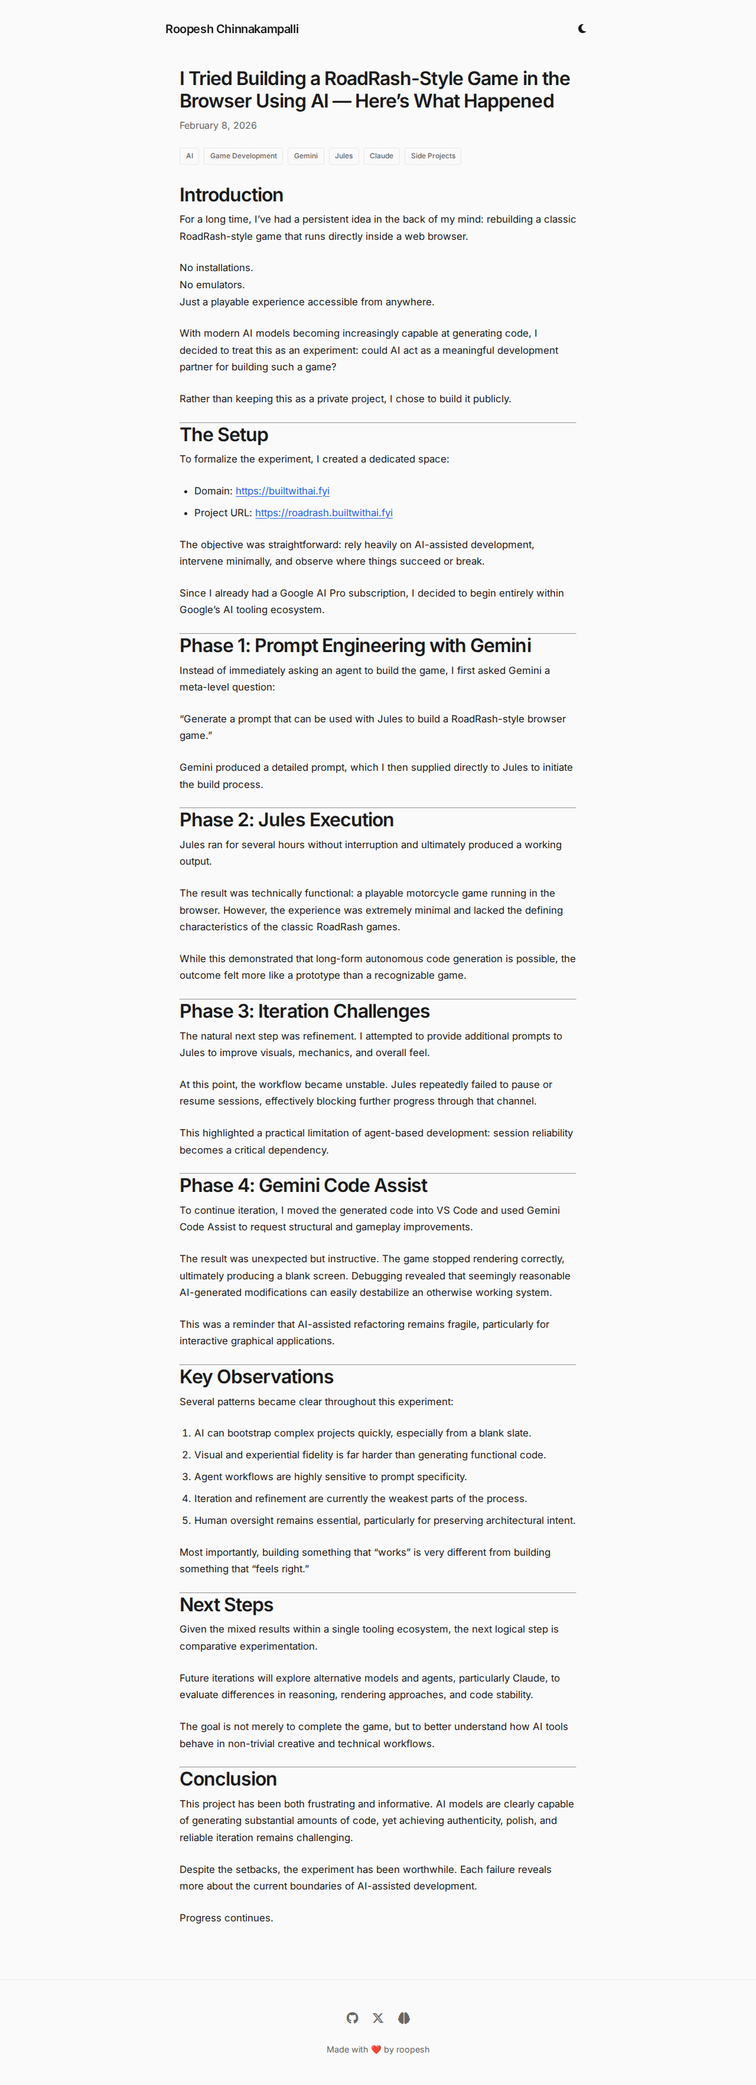
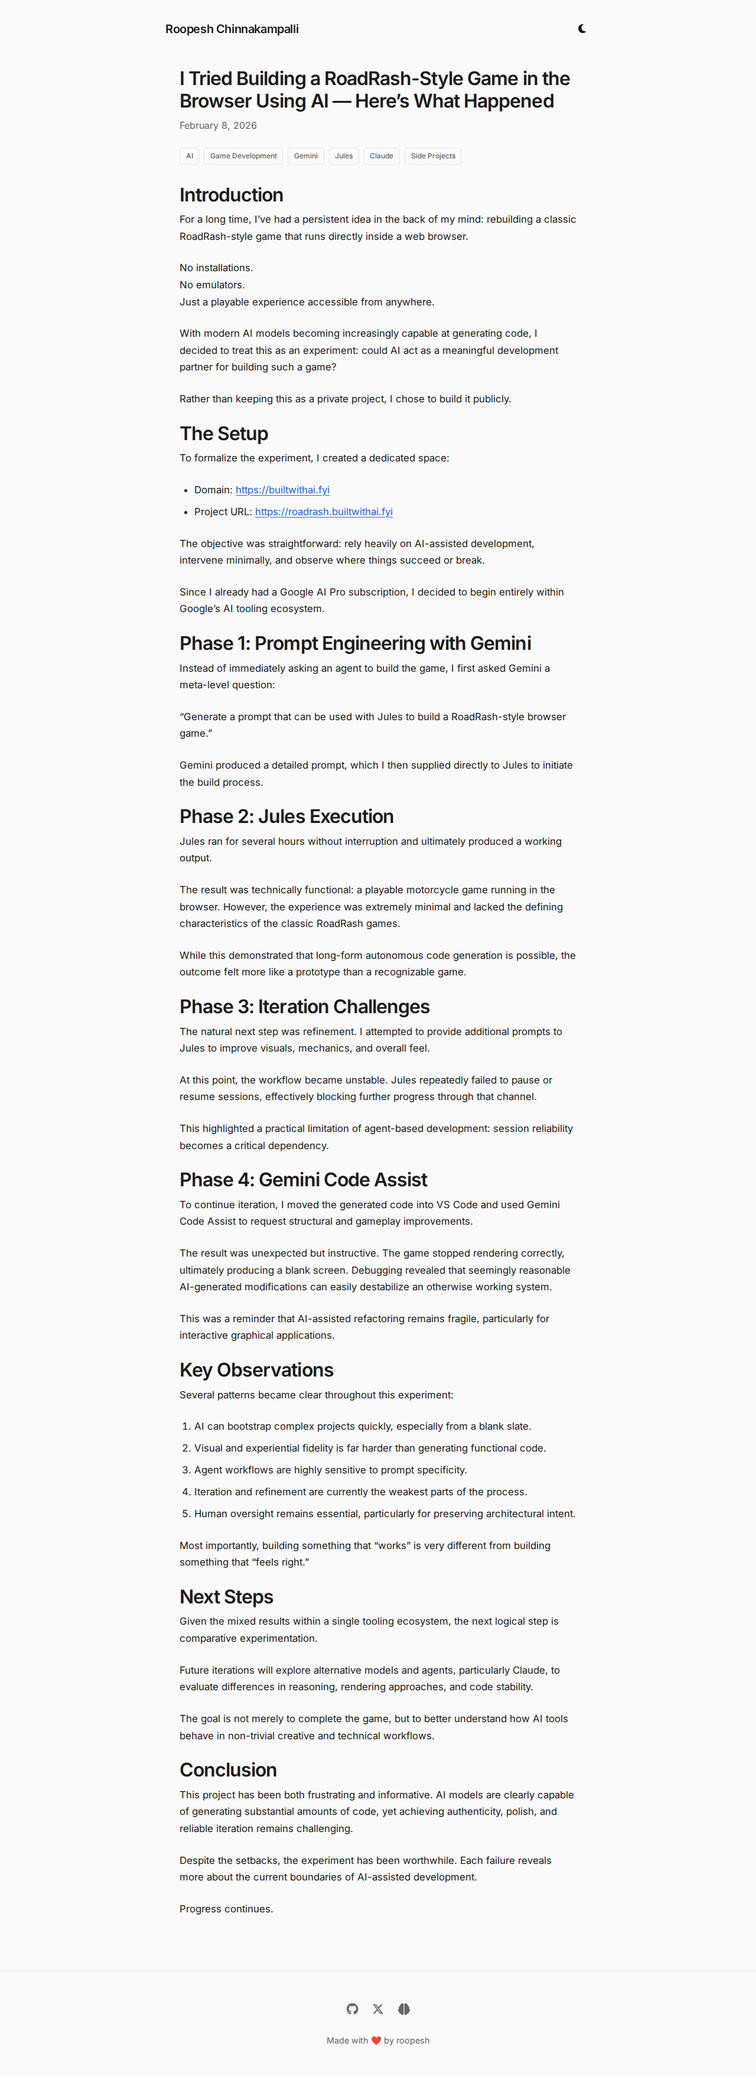
Update content for 'I Tried Building a RoadRash-Style Game' article
- Updated title, date, and tags in metadata.json
- Replaced body content in content.md with new text provided by the user
- Ensured markdown content is free of horizontal rules for cleaner formatting

diff --git a/articles/building-roadrash-browser-ai/index.html b/articles/building-roadrash-browser-ai/index.html
@@ -14,4 +14,4 @@
         "@id": "https://roopeshchinnakampalli.com/articles/building-roadrash-browser-ai/"
     },
     "url": "https://roopeshchinnakampalli.com/articles/building-roadrash-browser-ai/"
-}</script><meta name="title" content="I Tried Building a RoadRash-Style Game in the Browser Using AI — Here’s What Happened - Roopesh Chinnakampalli"><meta name="robots" content="index, follow"><meta name="language" content="English"><meta name="revisit-after" content="7 days"><meta property="article:published_time" content="2026-02-08T00:00:00Z"><meta property="article:modified_time" content="2026-02-08T00:00:00Z"><meta property="article:author" content="Roopesh Chinnakampalli"><meta property="article:tag" content="AI"><meta property="article:tag" content="Game Development"><meta property="article:tag" content="Gemini"><meta property="article:tag" content="Jules"><meta property="article:tag" content="Claude"><meta property="article:tag" content="Side Projects"><meta property="twitter:card" content="summary_large_image"><meta property="twitter:url" content="https://roopeshchinnakampalli.com/articles/building-roadrash-browser-ai/"><meta property="twitter:title" content="I Tried Building a RoadRash-Style Game in the Browser Using AI — Here’s What Happened - Roopesh Chinnakampalli"><meta property="twitter:description" content="For a long time, I’ve had a persistent idea in the back of my mind: rebuilding a classic RoadRash-style game that runs directly inside a web browser."></head><body><header><nav><h1><a href="../../index.html">Roopesh Chinnakampalli</a></h1><button id="theme-toggle" aria-label="Toggle dark mode"><i class="fas fa-sun"></i></button></nav></header><main><article class="blog-post"><h2>I Tried Building a RoadRash-Style Game in the Browser Using AI — Here’s What Happened</h2><p class="date">February 8, 2026</p><div class="tags"><span class="tag">AI</span> <span class="tag">Game Development</span> <span class="tag">Gemini</span> <span class="tag">Jules</span> <span class="tag">Claude</span> <span class="tag">Side Projects</span></div><div class="content"><h2>Introduction</h2><p>For a long time, I’ve had a persistent idea in the back of my mind: rebuilding a classic RoadRash-style game that runs directly inside a web browser.</p><p>No installations.<br>No emulators.<br>Just a playable experience accessible from anywhere.</p><p>With modern AI models becoming increasingly capable at generating code, I decided to treat this as an experiment: could AI act as a meaningful development partner for building such a game?</p><p>Rather than keeping this as a private project, I chose to build it publicly.</p><hr><h2>The Setup</h2><p>To formalize the experiment, I created a dedicated space:</p><ul><li>Domain: <a href="https://builtwithai.fyi">https://builtwithai.fyi</a></li><li>Project URL: <a href="https://roadrash.builtwithai.fyi">https://roadrash.builtwithai.fyi</a></li></ul><p>The objective was straightforward: rely heavily on AI-assisted development, intervene minimally, and observe where things succeed or break.</p><p>Since I already had a Google AI Pro subscription, I decided to begin entirely within Google’s AI tooling ecosystem.</p><hr><h2>Phase 1: Prompt Engineering with Gemini</h2><p>Instead of immediately asking an agent to build the game, I first asked Gemini a meta-level question:</p><p>“Generate a prompt that can be used with Jules to build a RoadRash-style browser game.”</p><p>Gemini produced a detailed prompt, which I then supplied directly to Jules to initiate the build process.</p><hr><h2>Phase 2: Jules Execution</h2><p>Jules ran for several hours without interruption and ultimately produced a working output.</p><p>The result was technically functional: a playable motorcycle game running in the browser. However, the experience was extremely minimal and lacked the defining characteristics of the classic RoadRash games.</p><p>While this demonstrated that long-form autonomous code generation is possible, the outcome felt more like a prototype than a recognizable game.</p><hr><h2>Phase 3: Iteration Challenges</h2><p>The natural next step was refinement. I attempted to provide additional prompts to Jules to improve visuals, mechanics, and overall feel.</p><p>At this point, the workflow became unstable. Jules repeatedly failed to pause or resume sessions, effectively blocking further progress through that channel.</p><p>This highlighted a practical limitation of agent-based development: session reliability becomes a critical dependency.</p><hr><h2>Phase 4: Gemini Code Assist</h2><p>To continue iteration, I moved the generated code into VS Code and used Gemini Code Assist to request structural and gameplay improvements.</p><p>The result was unexpected but instructive. The game stopped rendering correctly, ultimately producing a blank screen. Debugging revealed that seemingly reasonable AI-generated modifications can easily destabilize an otherwise working system.</p><p>This was a reminder that AI-assisted refactoring remains fragile, particularly for interactive graphical applications.</p><hr><h2>Key Observations</h2><p>Several patterns became clear throughout this experiment:</p><ol><li>AI can bootstrap complex projects quickly, especially from a blank slate.</li><li>Visual and experiential fidelity is far harder than generating functional code.</li><li>Agent workflows are highly sensitive to prompt specificity.</li><li>Iteration and refinement are currently the weakest parts of the process.</li><li>Human oversight remains essential, particularly for preserving architectural intent.</li></ol><p>Most importantly, building something that “works” is very different from building something that “feels right.”</p><hr><h2>Next Steps</h2><p>Given the mixed results within a single tooling ecosystem, the next logical step is comparative experimentation.</p><p>Future iterations will explore alternative models and agents, particularly Claude, to evaluate differences in reasoning, rendering approaches, and code stability.</p><p>The goal is not merely to complete the game, but to better understand how AI tools behave in non-trivial creative and technical workflows.</p><hr><h2>Conclusion</h2><p>This project has been both frustrating and informative. AI models are clearly capable of generating substantial amounts of code, yet achieving authenticity, polish, and reliable iteration remains challenging.</p><p>Despite the setbacks, the experiment has been worthwhile. Each failure reveals more about the current boundaries of AI-assisted development.</p><p>Progress continues.</p></div></article></main><footer><div class="social-links"><a href="https://github.com/roopeshchinnakampalli" aria-label="GitHub" target="_blank" rel="noopener noreferrer"><i class="fab fa-github"></i> </a><a href="https://x.com/roopesh_reddy" aria-label="Twitter" target="_blank" rel="noopener noreferrer"><i class="fab fa-x-twitter"></i> </a><a href="https://huggingface.co/roopeshc" aria-label="Hugging Face" target="_blank" rel="noopener noreferrer"><i class="fas fa-brain"></i></a></div><p>Made with ❤ by <a href="https://github.com/roopeshchinnakampalli">roopesh</a></p></footer><script src="../../script.js"></script></body></html>
+}</script><meta name="title" content="I Tried Building a RoadRash-Style Game in the Browser Using AI — Here’s What Happened - Roopesh Chinnakampalli"><meta name="robots" content="index, follow"><meta name="language" content="English"><meta name="revisit-after" content="7 days"><meta property="article:published_time" content="2026-02-08T00:00:00Z"><meta property="article:modified_time" content="2026-02-08T00:00:00Z"><meta property="article:author" content="Roopesh Chinnakampalli"><meta property="article:tag" content="AI"><meta property="article:tag" content="Game Development"><meta property="article:tag" content="Gemini"><meta property="article:tag" content="Jules"><meta property="article:tag" content="Claude"><meta property="article:tag" content="Side Projects"><meta property="twitter:card" content="summary_large_image"><meta property="twitter:url" content="https://roopeshchinnakampalli.com/articles/building-roadrash-browser-ai/"><meta property="twitter:title" content="I Tried Building a RoadRash-Style Game in the Browser Using AI — Here’s What Happened - Roopesh Chinnakampalli"><meta property="twitter:description" content="For a long time, I’ve had a persistent idea in the back of my mind: rebuilding a classic RoadRash-style game that runs directly inside a web browser."></head><body><header><nav><h1><a href="../../index.html">Roopesh Chinnakampalli</a></h1><button id="theme-toggle" aria-label="Toggle dark mode"><i class="fas fa-sun"></i></button></nav></header><main><article class="blog-post"><h2>I Tried Building a RoadRash-Style Game in the Browser Using AI — Here’s What Happened</h2><p class="date">February 8, 2026</p><div class="tags"><span class="tag">AI</span> <span class="tag">Game Development</span> <span class="tag">Gemini</span> <span class="tag">Jules</span> <span class="tag">Claude</span> <span class="tag">Side Projects</span></div><div class="content"><h2>Introduction</h2><p>For a long time, I’ve had a persistent idea in the back of my mind: rebuilding a classic RoadRash-style game that runs directly inside a web browser.</p><p>No installations.<br>No emulators.<br>Just a playable experience accessible from anywhere.</p><p>With modern AI models becoming increasingly capable at generating code, I decided to treat this as an experiment: could AI act as a meaningful development partner for building such a game?</p><p>Rather than keeping this as a private project, I chose to build it publicly.</p><h2>The Setup</h2><p>To formalize the experiment, I created a dedicated space:</p><ul><li>Domain: <a href="https://builtwithai.fyi">https://builtwithai.fyi</a></li><li>Project URL: <a href="https://roadrash.builtwithai.fyi">https://roadrash.builtwithai.fyi</a></li></ul><p>The objective was straightforward: rely heavily on AI-assisted development, intervene minimally, and observe where things succeed or break.</p><p>Since I already had a Google AI Pro subscription, I decided to begin entirely within Google’s AI tooling ecosystem.</p><h2>Phase 1: Prompt Engineering with Gemini</h2><p>Instead of immediately asking an agent to build the game, I first asked Gemini a meta-level question:</p><p>“Generate a prompt that can be used with Jules to build a RoadRash-style browser game.”</p><p>Gemini produced a detailed prompt, which I then supplied directly to Jules to initiate the build process.</p><h2>Phase 2: Jules Execution</h2><p>Jules ran for several hours without interruption and ultimately produced a working output.</p><p>The result was technically functional: a playable motorcycle game running in the browser. However, the experience was extremely minimal and lacked the defining characteristics of the classic RoadRash games.</p><p>While this demonstrated that long-form autonomous code generation is possible, the outcome felt more like a prototype than a recognizable game.</p><h2>Phase 3: Iteration Challenges</h2><p>The natural next step was refinement. I attempted to provide additional prompts to Jules to improve visuals, mechanics, and overall feel.</p><p>At this point, the workflow became unstable. Jules repeatedly failed to pause or resume sessions, effectively blocking further progress through that channel.</p><p>This highlighted a practical limitation of agent-based development: session reliability becomes a critical dependency.</p><h2>Phase 4: Gemini Code Assist</h2><p>To continue iteration, I moved the generated code into VS Code and used Gemini Code Assist to request structural and gameplay improvements.</p><p>The result was unexpected but instructive. The game stopped rendering correctly, ultimately producing a blank screen. Debugging revealed that seemingly reasonable AI-generated modifications can easily destabilize an otherwise working system.</p><p>This was a reminder that AI-assisted refactoring remains fragile, particularly for interactive graphical applications.</p><h2>Key Observations</h2><p>Several patterns became clear throughout this experiment:</p><ol><li>AI can bootstrap complex projects quickly, especially from a blank slate.</li><li>Visual and experiential fidelity is far harder than generating functional code.</li><li>Agent workflows are highly sensitive to prompt specificity.</li><li>Iteration and refinement are currently the weakest parts of the process.</li><li>Human oversight remains essential, particularly for preserving architectural intent.</li></ol><p>Most importantly, building something that “works” is very different from building something that “feels right.”</p><h2>Next Steps</h2><p>Given the mixed results within a single tooling ecosystem, the next logical step is comparative experimentation.</p><p>Future iterations will explore alternative models and agents, particularly Claude, to evaluate differences in reasoning, rendering approaches, and code stability.</p><p>The goal is not merely to complete the game, but to better understand how AI tools behave in non-trivial creative and technical workflows.</p><h2>Conclusion</h2><p>This project has been both frustrating and informative. AI models are clearly capable of generating substantial amounts of code, yet achieving authenticity, polish, and reliable iteration remains challenging.</p><p>Despite the setbacks, the experiment has been worthwhile. Each failure reveals more about the current boundaries of AI-assisted development.</p><p>Progress continues.</p></div></article></main><footer><div class="social-links"><a href="https://github.com/roopeshchinnakampalli" aria-label="GitHub" target="_blank" rel="noopener noreferrer"><i class="fab fa-github"></i> </a><a href="https://x.com/roopesh_reddy" aria-label="Twitter" target="_blank" rel="noopener noreferrer"><i class="fab fa-x-twitter"></i> </a><a href="https://huggingface.co/roopeshc" aria-label="Hugging Face" target="_blank" rel="noopener noreferrer"><i class="fas fa-brain"></i></a></div><p>Made with ❤ by <a href="https://github.com/roopeshchinnakampalli">roopesh</a></p></footer><script src="../../script.js"></script></body></html>

diff --git a/index.html b/index.html
@@ -8,4 +8,4 @@
         "name": "Roopesh Chinnakampalli"
     },
     "description": "Personal website of Roopesh Chinnakampalli"
-}</script></head><body><header><nav><h1><a href="index.html">Roopesh Chinnakampalli</a></h1><button id="theme-toggle" aria-label="Toggle dark mode"><i class="fas fa-sun"></i></button></nav></header><main><section class="blog-posts"><article class="blog-post"><div class="post-header"><h2><a href="articles/building-roadrash-browser-ai/index.html">I Tried Building a RoadRash-Style Game in the Browser Using AI — Here’s What Happened</a></h2><div class="meta"><span class="date">February 8, 2026</span> <span class="reading-time">2 min read</span></div></div><p>Rebuilding a classic RoadRash-style game in the browser using AI.</p></article><article class="blog-post"><div class="post-header"><h2><a href="articles/hello-world/index.html">Hello, World!</a></h2><div class="meta"><span class="date">April 19, 2025</span> <span class="reading-time">1 min read</span></div></div><p>Exploring the Future: Insights and Ideas on AI, Technology, Robotics, and Autonomous Vehicles.</p></article></section></main><footer><div class="social-links"><a href="https://github.com/roopeshchinnakampalli" aria-label="GitHub" target="_blank" rel="noopener noreferrer"><i class="fab fa-github"></i> </a><a href="https://x.com/roopesh_reddy" aria-label="Twitter" target="_blank" rel="noopener noreferrer"><i class="fab fa-x-twitter"></i> </a><a href="https://huggingface.co/roopeshc" aria-label="Hugging Face" target="_blank" rel="noopener noreferrer"><i class="fas fa-brain"></i></a></div><p>Made with ❤ by <a href="https://github.com/roopeshchinnakampalli">roopesh</a></p></footer><script src="script.js"></script></body></html>
+}</script></head><body><header><nav><h1><a href="index.html">Roopesh Chinnakampalli</a></h1><button id="theme-toggle" aria-label="Toggle dark mode"><i class="fas fa-sun"></i></button></nav></header><main><section class="blog-posts"><article class="blog-post"><div class="post-header"><h2><a href="articles/building-roadrash-browser-ai/index.html">I Tried Building a RoadRash-Style Game in the Browser Using AI — Here’s What Happened</a></h2><div class="meta"><span class="date">February 8, 2026</span> <span class="reading-time">3 min read</span></div></div><p>Rebuilding a classic RoadRash-style game in the browser using AI.</p></article><article class="blog-post"><div class="post-header"><h2><a href="articles/hello-world/index.html">Hello, World!</a></h2><div class="meta"><span class="date">April 19, 2025</span> <span class="reading-time">1 min read</span></div></div><p>Exploring the Future: Insights and Ideas on AI, Technology, Robotics, and Autonomous Vehicles.</p></article></section></main><footer><div class="social-links"><a href="https://github.com/roopeshchinnakampalli" aria-label="GitHub" target="_blank" rel="noopener noreferrer"><i class="fab fa-github"></i> </a><a href="https://x.com/roopesh_reddy" aria-label="Twitter" target="_blank" rel="noopener noreferrer"><i class="fab fa-x-twitter"></i> </a><a href="https://huggingface.co/roopeshc" aria-label="Hugging Face" target="_blank" rel="noopener noreferrer"><i class="fas fa-brain"></i></a></div><p>Made with ❤ by <a href="https://github.com/roopeshchinnakampalli">roopesh</a></p></footer><script src="script.js"></script></body></html>

diff --git a/tags/ai.html b/tags/ai.html
@@ -29,7 +29,7 @@
                     <h2><a href="../articles/building-roadrash-browser-ai/index.html">I Tried Building a RoadRash-Style Game in the Browser Using AI — Here’s What Happened</a></h2>
                     <div class="meta">
                         <span class="date">February 8, 2026</span>
-                        <span class="reading-time">2 min read</span>
+                        <span class="reading-time">3 min read</span>
                     </div>
                 </div>
                 <div class="tags">

diff --git a/tags/claude.html b/tags/claude.html
@@ -29,7 +29,7 @@
                     <h2><a href="../articles/building-roadrash-browser-ai/index.html">I Tried Building a RoadRash-Style Game in the Browser Using AI — Here’s What Happened</a></h2>
                     <div class="meta">
                         <span class="date">February 8, 2026</span>
-                        <span class="reading-time">2 min read</span>
+                        <span class="reading-time">3 min read</span>
                     </div>
                 </div>
                 <div class="tags">

diff --git a/tags/game-development.html b/tags/game-development.html
@@ -29,7 +29,7 @@
                     <h2><a href="../articles/building-roadrash-browser-ai/index.html">I Tried Building a RoadRash-Style Game in the Browser Using AI — Here’s What Happened</a></h2>
                     <div class="meta">
                         <span class="date">February 8, 2026</span>
-                        <span class="reading-time">2 min read</span>
+                        <span class="reading-time">3 min read</span>
                     </div>
                 </div>
                 <div class="tags">

diff --git a/tags/gemini.html b/tags/gemini.html
@@ -29,7 +29,7 @@
                     <h2><a href="../articles/building-roadrash-browser-ai/index.html">I Tried Building a RoadRash-Style Game in the Browser Using AI — Here’s What Happened</a></h2>
                     <div class="meta">
                         <span class="date">February 8, 2026</span>
-                        <span class="reading-time">2 min read</span>
+                        <span class="reading-time">3 min read</span>
                     </div>
                 </div>
                 <div class="tags">

diff --git a/tags/jules.html b/tags/jules.html
@@ -29,7 +29,7 @@
                     <h2><a href="../articles/building-roadrash-browser-ai/index.html">I Tried Building a RoadRash-Style Game in the Browser Using AI — Here’s What Happened</a></h2>
                     <div class="meta">
                         <span class="date">February 8, 2026</span>
-                        <span class="reading-time">2 min read</span>
+                        <span class="reading-time">3 min read</span>
                     </div>
                 </div>
                 <div class="tags">

diff --git a/tags/side-projects.html b/tags/side-projects.html
@@ -29,7 +29,7 @@
                     <h2><a href="../articles/building-roadrash-browser-ai/index.html">I Tried Building a RoadRash-Style Game in the Browser Using AI — Here’s What Happened</a></h2>
                     <div class="meta">
                         <span class="date">February 8, 2026</span>
-                        <span class="reading-time">2 min read</span>
+                        <span class="reading-time">3 min read</span>
                     </div>
                 </div>
                 <div class="tags">

diff --git a/articles/building-roadrash-browser-ai/content.md b/articles/building-roadrash-browser-ai/content.md
@@ -10,8 +10,6 @@ With modern AI models becoming increasingly capable at generating code, I decide
 
 Rather than keeping this as a private project, I chose to build it publicly.
 
----
-
 ## The Setup
 
 To formalize the experiment, I created a dedicated space:
@@ -23,8 +21,6 @@ The objective was straightforward: rely heavily on AI-assisted development, inte
 
 Since I already had a Google AI Pro subscription, I decided to begin entirely within Google’s AI tooling ecosystem.
 
----
-
 ## Phase 1: Prompt Engineering with Gemini
 
 Instead of immediately asking an agent to build the game, I first asked Gemini a meta-level question:
@@ -32,8 +28,6 @@ Instead of immediately asking an agent to build the game, I first asked Gemini a
 “Generate a prompt that can be used with Jules to build a RoadRash-style browser game.”
 
 Gemini produced a detailed prompt, which I then supplied directly to Jules to initiate the build process.
-
----
 
 ## Phase 2: Jules Execution
 
@@ -43,8 +37,6 @@ The result was technically functional: a playable motorcycle game running in the
 
 While this demonstrated that long-form autonomous code generation is possible, the outcome felt more like a prototype than a recognizable game.
 
----
-
 ## Phase 3: Iteration Challenges
 
 The natural next step was refinement. I attempted to provide additional prompts to Jules to improve visuals, mechanics, and overall feel.
@@ -53,8 +45,6 @@ At this point, the workflow became unstable. Jules repeatedly failed to pause or
 
 This highlighted a practical limitation of agent-based development: session reliability becomes a critical dependency.
 
----
-
 ## Phase 4: Gemini Code Assist
 
 To continue iteration, I moved the generated code into VS Code and used Gemini Code Assist to request structural and gameplay improvements.
@@ -62,8 +52,6 @@ To continue iteration, I moved the generated code into VS Code and used Gemini C
 The result was unexpected but instructive. The game stopped rendering correctly, ultimately producing a blank screen. Debugging revealed that seemingly reasonable AI-generated modifications can easily destabilize an otherwise working system.
 
 This was a reminder that AI-assisted refactoring remains fragile, particularly for interactive graphical applications.
-
----
 
 ## Key Observations
 
@@ -77,8 +65,6 @@ Several patterns became clear throughout this experiment:
 
 Most importantly, building something that “works” is very different from building something that “feels right.”
 
----
-
 ## Next Steps
 
 Given the mixed results within a single tooling ecosystem, the next logical step is comparative experimentation.
@@ -86,8 +72,6 @@ Given the mixed results within a single tooling ecosystem, the next logical step
 Future iterations will explore alternative models and agents, particularly Claude, to evaluate differences in reasoning, rendering approaches, and code stability.
 
 The goal is not merely to complete the game, but to better understand how AI tools behave in non-trivial creative and technical workflows.
-
----
 
 ## Conclusion
 
